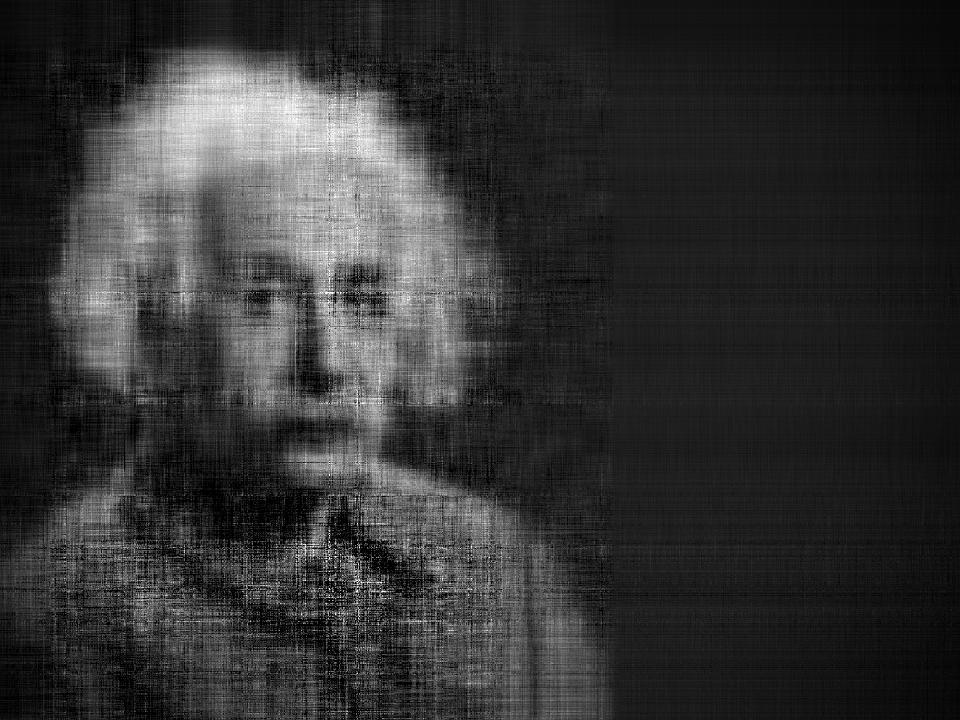
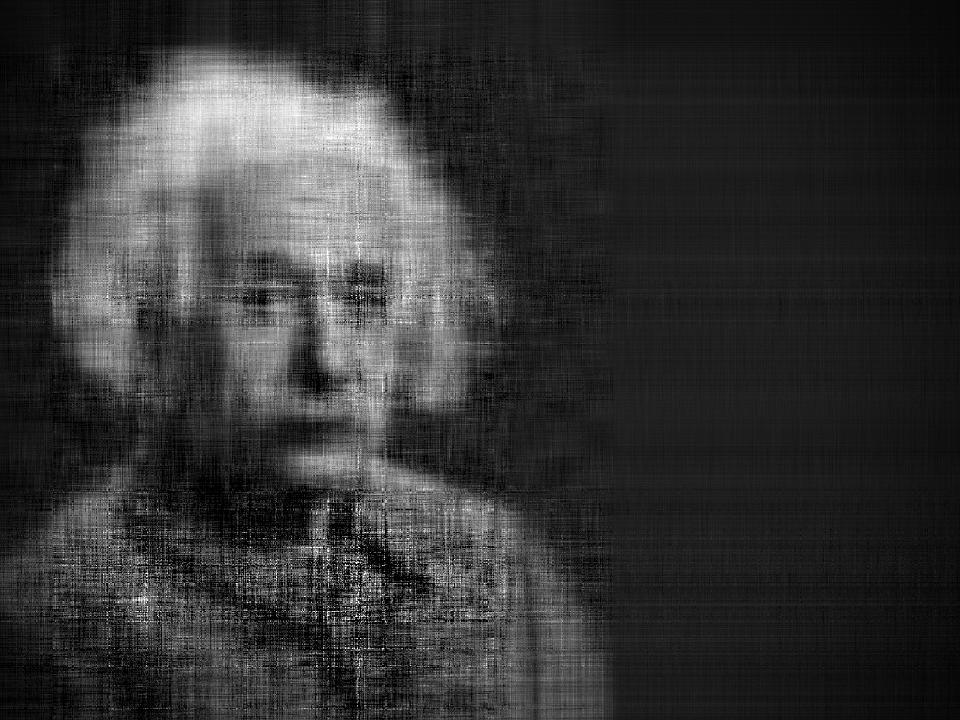
max iterations included, updated README

Changed region(s): [[0.0, 0.0611, 0.625, 1.0]]

diff --git a/scripts/test_image.py b/scripts/test_image.py
@@ -34,6 +34,12 @@ parser.add_argument(
     default=None,
     help='estimate for the rank of the matrix'
 )
+parser.add_argument(
+    '--max_iterations',
+    type=int,
+    default=500,
+    help='maximum number of algorithm iterations'
+)
 
 args = parser.parse_args()
 
@@ -74,7 +80,7 @@ M_masked = MaskedMatrix(sampled_elements=sampled_elements, sampled_row_idx=sampl
 M_masked.initialize(M_true=img_array)
 
 # initialize algorithm
-asd = AlternatingSteepestDescent(algo_name='asd')
+asd = AlternatingSteepestDescent(algo_name='asd', max_iterations=args.max_iterations)
 
 # optimize
 M_new = asd.optimize(M_masked)

diff --git a/scripts/test_random_matrix.py b/scripts/test_random_matrix.py
@@ -32,6 +32,12 @@ parser.add_argument(
     default=None,
     help='estimate for the rank of the matrix'
 )
+parser.add_argument(
+    '--max_iterations',
+    type=int,
+    default=500,
+    help='maximum number of algorithm iterations'
+)
 
 args = parser.parse_args()
 
@@ -62,7 +68,7 @@ M_masked = MaskedMatrix(sampled_elements=sampled_elements, sampled_row_idx=sampl
 M_masked.initialize()
 
 # initialize algorithm
-asd = AlternatingSteepestDescent(algo_name='asd')
+asd = AlternatingSteepestDescent(algo_name='asd', max_iterations=args.max_iterations)
 
 # optimize
 M_new = asd.optimize(M_masked)

diff --git a/algorithms/algo.py b/algorithms/algo.py
@@ -30,6 +30,12 @@ class CompletionAlgorithm(ABC):
 
 
 class AlternatingSteepestDescent(CompletionAlgorithm):
+    """
+        Alternating Steepest Descent for matrix completion
+
+        Reference: Low-rank matrix completion by alternating steepest descent methods
+            Tanner & Wei, Appl. and Comp. Harmonic Analysis, 2016
+    """
     def optimize(self, matrix: MaskedMatrix):
         """ Loop through the iteration process to create the fully
             constructed matrix

diff --git a/README.md b/README.md
@@ -1,1 +1,17 @@
 # Matrix_Completion
+
+This repository contains a set of methods implemented in python 3.x for matrix completion.
+
+Implemented so far are:
+  - **Alternating Steepest Descent**, Reference: _ Low-rank matrix completion by alternating steepest descent methods
+              Tanner & Wei, Appl. and Comp. Harmonic Analysis, 2016_,
+              [link](https://people.maths.ox.ac.uk/tanner/papers/TaWei_ASD.pdf)
+
+
+
+## Examples
+Corrupted:
+![alt text](./examples/images/corrupt_0.5_albert-einstein.jpg 'corrupted image')
+
+Reconstructed:
+![alt text](./examples/images/reconstructed_0.5_albert-einstein.jpg 'reconstructed image')
